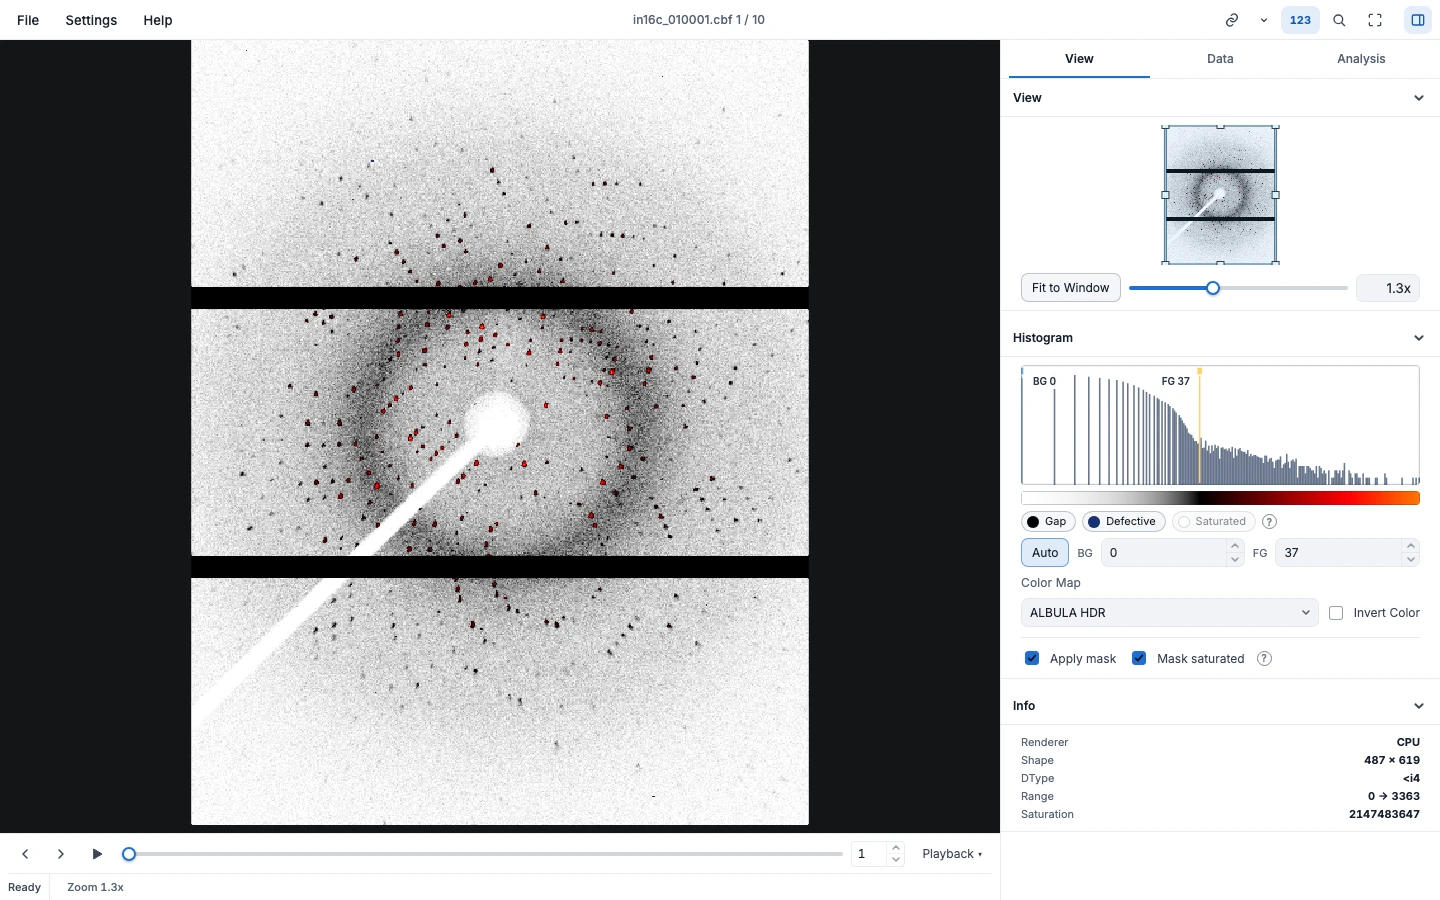
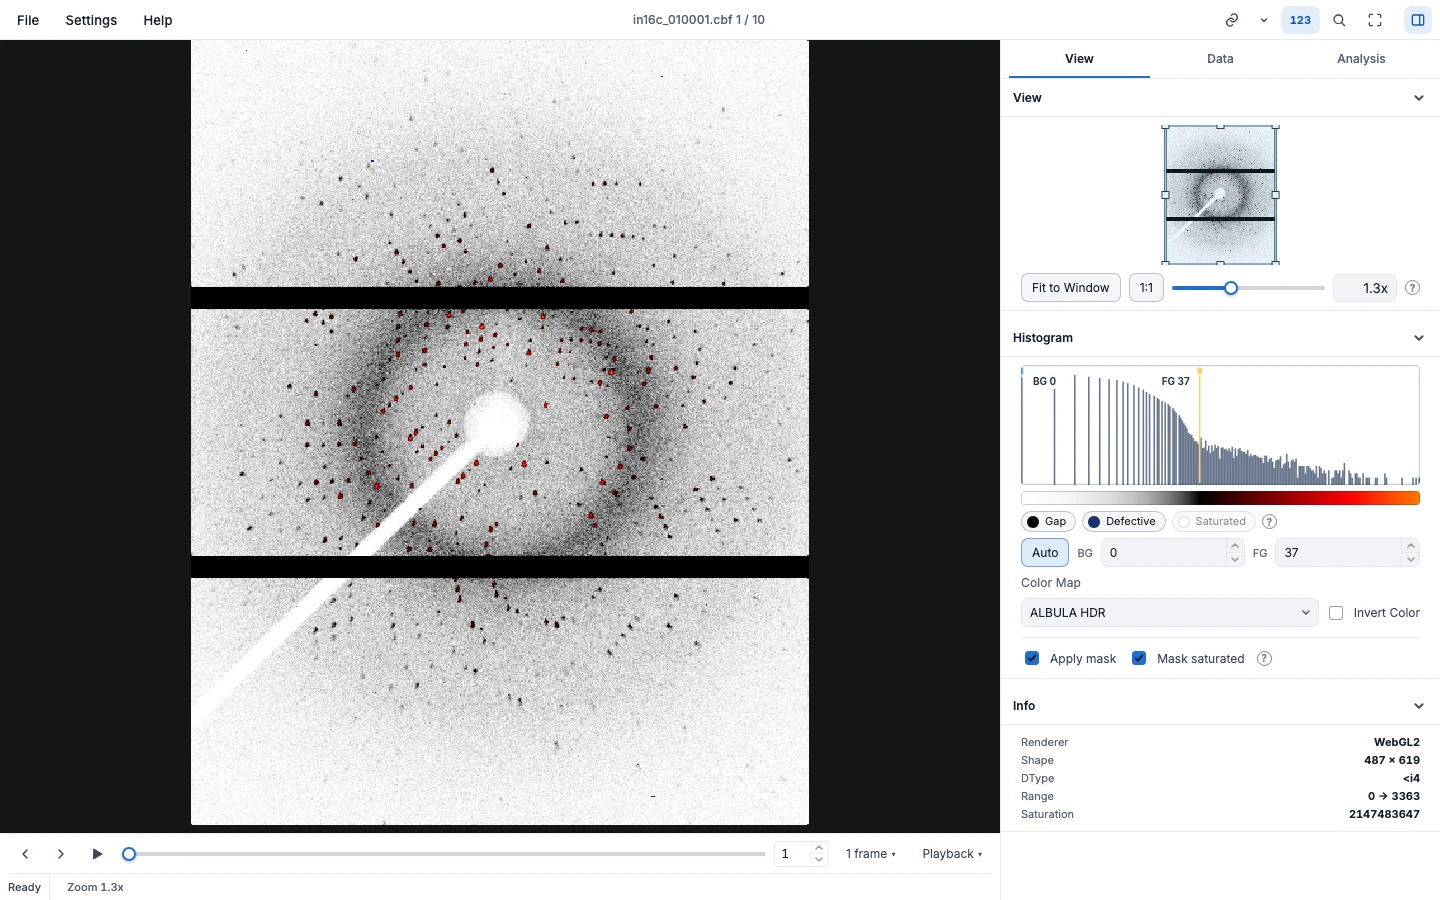
docs(guide): picture of the 3D view; bring the guide's pictures up to date
A new roi-3d scene shows the box ROI's 3D view on the strongest reflection
near the beam, with the mouse on its peak so the readout is in the picture.
The guide's headless Chrome now runs with SwiftShader (--use-angle=swiftshader,
--enable-unsafe-swiftshader): with --disable-gpu alone it offers no WebGL, and
the view only said so. A run of every scene with and without the flags gives
the same pictures (at most a few hundred pixels shift by more than a faint
shade, in two full-window shots).

The other pictures were last made on 2026-11-18 and no longer matched the
interface: the halos and marker colours of 0.49.1, the Whole frame button
and the 3D View row in the ROI section, and the Export Image and Convert
Dataset dialogs, whose sizes changed. All scenes made again; the README
picture with them.

diff --git a/docs/USER_GUIDE.md b/docs/USER_GUIDE.md
@@ -479,6 +479,8 @@ Four plots accompany the region:
   narrower than one value, so fixed **Bins** over a short range of values
   gives fewer bars than asked for.
 
+![The 3D View of a box ROI on a reflection: a lit surface in the image's colours, the reflection a tall peak, with the readout of its highest pixel](images/user-guide/roi-3d.webp)
+
 Plot axes autoscale by default; switch to **Manual axes** to pin them while
 stepping through frames, so the shape you are watching does not rescale
 underneath you. Drag on a plot to pan, wheel over an axis to zoom, double-click
